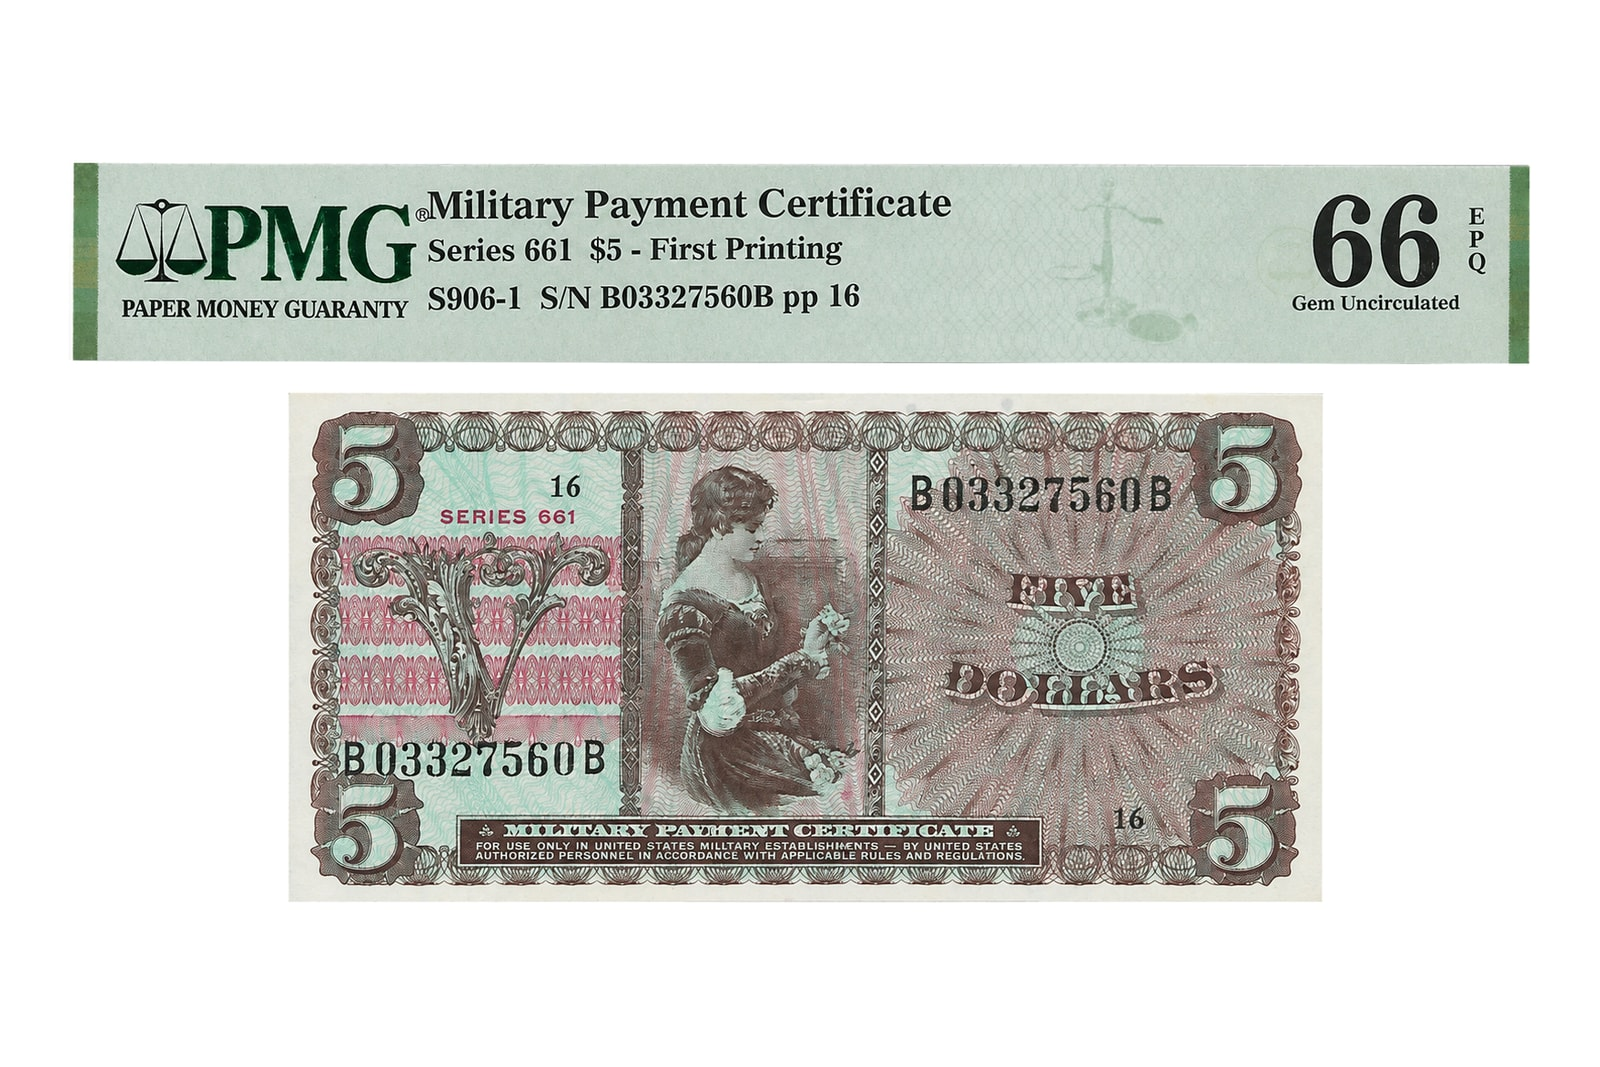
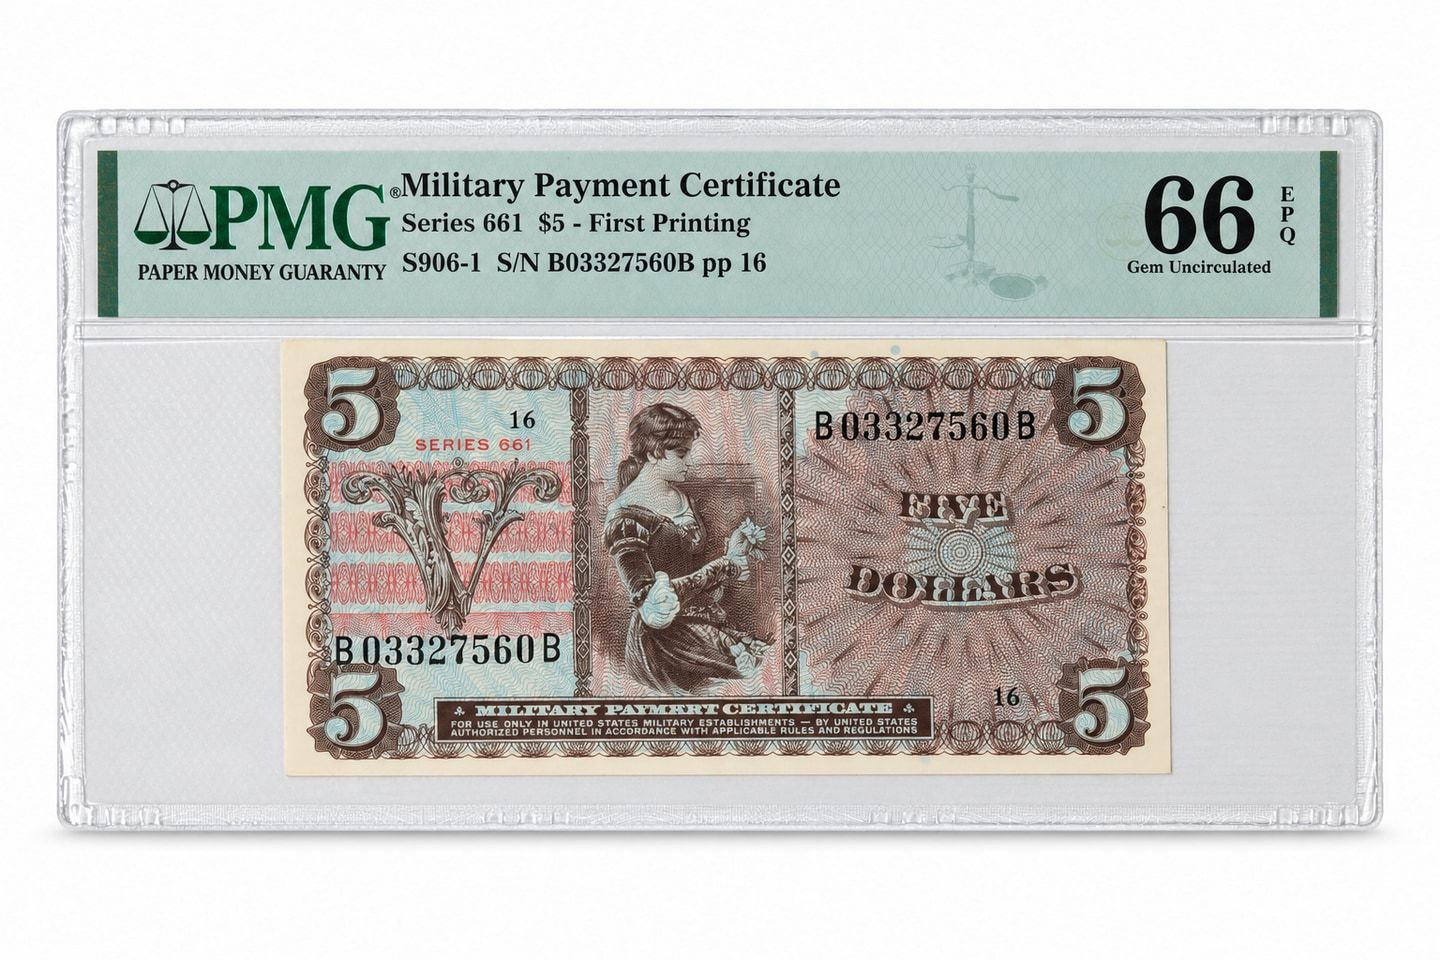
Replace Series 661 $5 MPC catalog photos with new slab scans.
Keep the existing B03327560B / PMG 2108364-011 holding and update front, back, and composite masters plus intrinsic dimensions.

diff --git a/src/data/mpc-vietnam.ts b/src/data/mpc-vietnam.ts
@@ -365,8 +365,8 @@ export const mpcVietnamNotes: MpcVietnamNote[] = [
       composite: '/images/catalog/estados-unidos/mpc-661-5-composite.jpg',
       front: '/images/catalog/estados-unidos/mpc-661-5-front.jpg',
       back: '/images/catalog/estados-unidos/mpc-661-5-back.jpg',
-      width: 1600,
-      height: 1067,
+      width: 1440,
+      height: 960,
     },
     title: {
       es: '5 dólares · Serie 661',
